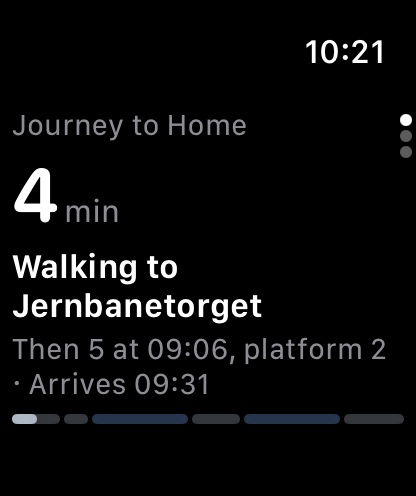
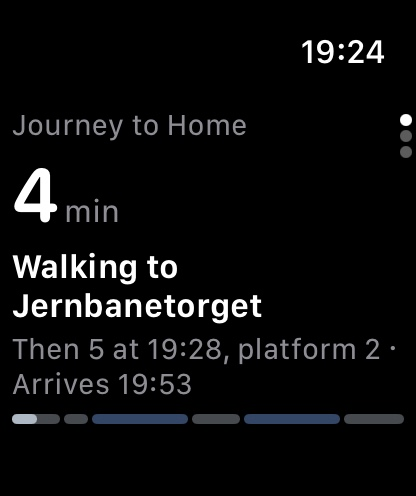
Put the Apple Watch app's screenshots and review note on the App Store (#134)
* Put the Apple Watch app's screenshots and review note on the App Store

The upload script takes watch_* screenshots (Norwegian ones added, both
retaken with the demo's times following the clock), the App Review notes
explain the watch app and the Bluetooth background mode within Apple's
4000 characters, and an "App Store listing" workflow runs both scripts
with the repository's key, creating the version when the release has not
yet.

-PTStop YES in the watch app's debug builds sends "Stop following" by
itself, which is how both directions were checked between paired
simulators.

* Let the media upload replace only some devices' media

---------

diff --git a/iosApp/WatchApp/WatchJourney.swift b/iosApp/WatchApp/WatchJourney.swift
@@ -57,6 +57,12 @@ final class WatchJourney: NSObject, ObservableObject, WCSessionDelegate {
                 guard let new = JourneyPlan(message: context) else { return }
                 if new.id != plan?.id { stopQueued = false }
                 plan = new
+                #if DEBUG
+                // -PTStop YES: "Stop following" as soon as a journey arrives, to check the way back
+                // to the iPhone between paired simulators, where a script cannot tap the button.
+                // A few seconds in, as a tap would be: the session is not reachable the moment it activates.
+                if UserDefaults.standard.bool(forKey: "PTStop") { DispatchQueue.main.asyncAfter(deadline: .now() + 5) { self.stopFollowing() } }
+                #endif
             case "end":
                 guard context["id"] as? String == plan?.id else { return }
                 // A journey that arrived stays to say so; one that was stopped goes.
@@ -73,18 +79,32 @@ final class WatchJourney: NSObject, ObservableObject, WCSessionDelegate {
 
     #if DEBUG
     /// The Garmin demo's journey (garminApp/source/Demo.mc): a walk, metro 5, bus 20 and the walk home.
+    /// Worded here in the watch's language, as the iPhone would have, for the store screenshots.
     private static func demoPlan(now: Int) -> [String: Any] {
         let m = 60
+        let norwegian = Locale.preferredLanguages.first?.hasPrefix("nb") == true
+        func t(_ english: String, _ norwegian_: String) -> String { norwegian ? norwegian_ : english }
+        let formatter = DateFormatter()
+        formatter.dateFormat = "HH:mm"
+        func clock(_ minutes: Int) -> String { formatter.string(from: Date(timeIntervalSince1970: TimeInterval(now + minutes * m))) }
+        let (metro, bus, arrival) = (clock(4), clock(16), clock(29))
         return [
-            "t": "plan", "v": 1, "id": "demo", "title": "Journey to Home", "arr": now + 29 * m,
+            "t": "plan", "v": 1, "id": "demo", "title": t("Journey to Home", "Reise til Hjem"), "arr": now + 29 * m,
             "f": [
-                [now, 2, "Walking to Jernbanetorget", "Then 5 at 09:06, platform 2 · Arrives 09:31", now + 4 * m],
-                [now + 2 * m, 0, "5 towards Vestli", "Leaves 09:06, 2 min late · Platform 2 · From Jernbanetorget · Arrives 09:31", now + 4 * m],
-                [now + 4 * m, 1, "On 5 to Majorstuen", "Next stop: Stortinget · 3 stops left · Then 20 at 09:18, platform B", now + 12 * m],
-                [now + 12 * m, 0, "20 towards Skøyen", "Leaves 09:18 · Platform B · Arrives 09:31", now + 16 * m],
-                [now + 16 * m, 1, "On 20 to Skøyen", "2 stops left · Arrives 09:31", now + 24 * m],
-                [now + 24 * m, 2, "Walking to Home", "Arrives 09:31", now + 29 * m],
-                [now + 29 * m, 3, "Arrived at Home", "Arrived 09:31", 0],
+                [now, 2, t("Walking to Jernbanetorget", "Går til Jernbanetorget"),
+                 t("Then 5 at \(metro), platform 2 · Arrives \(arrival)", "Så 5 kl. \(metro), plattform 2 · Ankomst \(arrival)"), now + 4 * m],
+                [now + 2 * m, 0, t("5 towards Vestli", "5 mot Vestli"),
+                 t("Leaves \(metro), 2 min late · Platform 2 · From Jernbanetorget · Arrives \(arrival)",
+                   "Går \(metro), 2 min forsinket · Plattform 2 · Fra Jernbanetorget · Ankomst \(arrival)"), now + 4 * m],
+                [now + 4 * m, 1, t("On 5 to Majorstuen", "Med 5 til Majorstuen"),
+                 t("Next stop: Stortinget · 3 stops left · Then 20 at \(bus), platform B",
+                   "Neste stopp: Stortinget · 3 stopp igjen · Så 20 kl. \(bus), plattform B"), now + 12 * m],
+                [now + 12 * m, 0, t("20 towards Skøyen", "20 mot Skøyen"),
+                 t("Leaves \(bus) · Platform B · Arrives \(arrival)", "Går \(bus) · Plattform B · Ankomst \(arrival)"), now + 16 * m],
+                [now + 16 * m, 1, t("On 20 to Skøyen", "Med 20 til Skøyen"),
+                 t("2 stops left · Arrives \(arrival)", "2 stopp igjen · Ankomst \(arrival)"), now + 24 * m],
+                [now + 24 * m, 2, t("Walking to Home", "Går til Hjem"), t("Arrives \(arrival)", "Ankomst \(arrival)"), now + 29 * m],
+                [now + 29 * m, 3, t("Arrived at Home", "Fremme ved Hjem"), t("Arrived \(arrival)", "Fremme \(arrival)"), 0],
             ],
             "s": [[0, now - 2 * m, now + 2 * m], [1, now + 2 * m, now + 4 * m], [2, now + 4 * m, now + 12 * m],
                   [1, now + 12 * m, now + 16 * m], [2, now + 16 * m, now + 24 * m], [0, now + 24 * m, now + 29 * m]],

diff --git a/scripts/upload-ios-store-media.rb b/scripts/upload-ios-store-media.rb
@@ -6,8 +6,10 @@
 #   ASC_KEY_ID=… ASC_ISSUER_ID=… ASC_KEY_P8="$(cat AuthKey.p8)" scripts/upload-ios-store-media.rb
 #
 # Files are named <device>_<n>_<scene>.jpg (with a -<pose> suffix for another iPhone Duo pose) and
-# <device>_preview.mp4, device being iphone (6.9"), ipad (13") or duo (iPhone Duo, screenshots
-# only), in one folder per App Store locale. They go up in name order.
+# <device>_preview.mp4, device being iphone (6.9"), ipad (13"), duo (iPhone Duo, screenshots
+# only) or watch (the Apple Watch app, 416×496, screenshots only), in one folder per App Store
+# locale. They go up in name order. ASC_VERSION=X.Y.Z creates that version when none is in preparation,
+# and ASC_MEDIA="watch duo" replaces only those devices' media, leaving the others as they are.
 require "base64"
 require "digest"
 require "json"
@@ -18,8 +20,13 @@ ROOT = File.expand_path("..", __dir__)
 APP_ID = "6819282127"
 # APP_IPHONE_DUO is not in Apple's API reference yet, but works: one set of up to 10 screenshots,
 # taking both the inner and the outer display's sizes.
-SCREENSHOT_TYPES = { "iphone" => "APP_IPHONE_67", "ipad" => "APP_IPAD_PRO_3GEN_129", "duo" => "APP_IPHONE_DUO" }.freeze
+SCREENSHOT_TYPES = { "iphone" => "APP_IPHONE_67", "ipad" => "APP_IPAD_PRO_3GEN_129", "duo" => "APP_IPHONE_DUO",
+                     "watch" => "APP_WATCH_SERIES_10" }.freeze
 PREVIEW_TYPES = { "iphone" => "IPHONE_67", "ipad" => "IPAD_PRO_3GEN_129" }.freeze
+ONLY = ENV["ASC_MEDIA"].to_s.split(/[\s,]+/).reject(&:empty?)
+unknown = ONLY - SCREENSHOT_TYPES.keys
+abort "ASC_MEDIA: unknown device #{unknown.join(', ')} (#{SCREENSHOT_TYPES.keys.join(', ')})" unless unknown.empty?
+wanted = ->(types) { ONLY.empty? ? types : types.slice(*ONLY) }
 
 def token
   key = OpenSSL::PKey::EC.new(ENV.fetch("ASC_KEY_P8"))
@@ -79,27 +86,38 @@ def fresh_set(localization_id, sets_path, set_type, type_attribute, type_value, 
     relationships: { appStoreVersionLocalization: { data: { type: "appStoreVersionLocalizations", id: localization_id } } } } })["data"]["id"]
 end
 
+# The version being prepared. With ASC_VERSION set and none in preparation, that version is created,
+# as the release would on its merge, so the listing can be made ready before the release is submitted.
+def editable_version
+  found = api(:get, "/v1/apps/#{APP_ID}/appStoreVersions?filter[appStoreState]=PREPARE_FOR_SUBMISSION,DEVELOPER_REJECTED,REJECTED,METADATA_REJECTED")["data"].first
+  return found if found
+  wanted = ENV["ASC_VERSION"].to_s
+  abort "No editable App Store version (set ASC_VERSION to create one)" if wanted.empty?
+  puts "Creating App Store version #{wanted}"
+  api(:post, "/v1/appStoreVersions", { data: { type: "appStoreVersions", attributes: { platform: "IOS", versionString: wanted },
+    relationships: { app: { data: { type: "apps", id: APP_ID } } } } })["data"]
+end
+
 # Checked before anything is replaced, so an oversized set leaves the version's media as it was.
-SCREENSHOT_TYPES.each_key do |device|
+wanted.(SCREENSHOT_TYPES).each_key do |device|
   Dir[File.join(ROOT, "iosApp/fastlane/screenshots", "*", "#{device}_*.{jpg,png}")].group_by { |f| File.dirname(f) }.each do |dir, files|
     abort "#{File.basename(dir)}: #{files.size} #{device} screenshots, App Store Connect takes at most 10" if files.size > 10
   end
 end
 
-version = api(:get, "/v1/apps/#{APP_ID}/appStoreVersions?filter[appStoreState]=PREPARE_FOR_SUBMISSION,DEVELOPER_REJECTED,REJECTED,METADATA_REJECTED")["data"].first
-abort "No editable App Store version" unless version
+version = editable_version
 localizations = api(:get, "/v1/appStoreVersions/#{version['id']}/appStoreVersionLocalizations")["data"]
   .to_h { |l| [l["attributes"]["locale"], l["id"]] }
 
 localizations.each do |locale, localization_id|
   puts "#{locale} (version #{version['attributes']['versionString']}):"
-  SCREENSHOT_TYPES.each do |device, display_type|
+  wanted.(SCREENSHOT_TYPES).each do |device, display_type|
     files = Dir[File.join(ROOT, "iosApp/fastlane/screenshots", locale, "#{device}_*.{jpg,png}")].sort
     next if files.empty?
     set_id = fresh_set(localization_id, "appScreenshotSets", "appScreenshotSets", "screenshotDisplayType", display_type, "appScreenshots")
     files.each { |file| upload("appScreenshots", :appScreenshotSet, set_id, file) }
   end
-  PREVIEW_TYPES.each do |device, preview_type|
+  wanted.(PREVIEW_TYPES).each do |device, preview_type|
     files = Dir[File.join(ROOT, "iosApp/fastlane/app_previews", locale, "#{device}_*.mp4")].sort
     next if files.empty?
     set_id = fresh_set(localization_id, "appPreviewSets", "appPreviewSets", "previewType", preview_type, "appPreviews")

diff --git a/scripts/update-ios-store-text.rb b/scripts/update-ios-store-text.rb
@@ -6,7 +6,8 @@
 #
 #   ASC_KEY_ID=… ASC_ISSUER_ID=… ASC_KEY_P8="$(cat AuthKey.p8)" scripts/update-ios-store-text.rb
 #
-# URLs, categories and copyright are left as App Store Connect has them.
+# URLs, categories and copyright are left as App Store Connect has them. ASC_VERSION=X.Y.Z creates
+# that version when none is in preparation.
 require "base64"
 require "json"
 require "net/http"
@@ -50,8 +51,19 @@ def update(type, id, attributes)
   api(:patch, "/v1/#{type}/#{id}", { data: { type: type, id: id, attributes: attributes } })
 end
 
-version = api(:get, "/v1/apps/#{APP_ID}/appStoreVersions?filter[appStoreState]=PREPARE_FOR_SUBMISSION,DEVELOPER_REJECTED,REJECTED,METADATA_REJECTED")["data"].first
-abort "No editable App Store version" unless version
+# The version being prepared. With ASC_VERSION set and none in preparation, that version is created,
+# as the release would on its merge, so the listing can be made ready before the release is submitted.
+def editable_version
+  found = api(:get, "/v1/apps/#{APP_ID}/appStoreVersions?filter[appStoreState]=PREPARE_FOR_SUBMISSION,DEVELOPER_REJECTED,REJECTED,METADATA_REJECTED")["data"].first
+  return found if found
+  wanted = ENV["ASC_VERSION"].to_s
+  abort "No editable App Store version (set ASC_VERSION to create one)" if wanted.empty?
+  puts "Creating App Store version #{wanted}"
+  api(:post, "/v1/appStoreVersions", { data: { type: "appStoreVersions", attributes: { platform: "IOS", versionString: wanted },
+    relationships: { app: { data: { type: "apps", id: APP_ID } } } } })["data"]
+end
+
+version = editable_version
 puts "Version #{version['attributes']['versionString']}:"
 
 api(:get, "/v1/appStoreVersions/#{version['id']}/appStoreVersionLocalizations")["data"].each do |localization|

diff --git a/CLAUDE.md b/CLAUDE.md
@@ -221,7 +221,7 @@ sample place.
 
 **Watch** (`data/journey/watch/`, Garmin first). A followed journey can also show on a watch. `WatchJourneyNotifier` wraps the platform's `JourneyNotifier` when the platform registers a `WatchLink` (the connected watch and its app) and a `WatchWording` in Koin; without them the tracker gets the phone's notifier as before. It asks the watch to open the app once as a journey starts, and sends the open app a `WatchPlan`: the journey from now to arrival as worded frames, timeline segments and the alerts to come, which the watch walks through by its own clock since the phone may be suspended. A plan is re-sent only when the watch does not already hold it (`isCoveredBy`). While the watch app is open (from its "start" to its "bye", or 150 s without an "alive") alerts come from the watch alone: the phone shows and schedules none, except a faster route, whose "Switch" only the phone has. "Stop following" on the watch stops the journey. The message format both ends share is `WatchMessages` (strings, 32-bit numbers and lists only; times in seconds). On Android the link is `GarminWatchLink` (`app/.../journey/`, Garmin's Connect IQ companion SDK, which talks through the Garmin Connect app; without that app there is simply no watch and nothing is shown or asked), worded by `AndroidWatchWording` from the notifications' own `JourneyProgressContent` and `JourneyAlertContent`; `GarminWatchLink.APP_ID` must match the watch app's manifest. On iOS it is `GarminWatch` (`iosApp/.../Platform/GarminWatch.swift`, the ConnectIQ Swift package, linked with `-ObjC`) behind the `WatchSource` port. There the SDK only learns of a watch through a round trip to Garmin Connect, started by "Connect Garmin watch" in Settings > Journey alerts and answered on the `pulsetransit-ciq` URL scheme; the chosen watch is saved, and the SDK, which asks for Bluetooth, is never started before one is chosen (nor in UI tests).
 
-**Apple Watch** (`iosApp/WatchApp`, target `PulseTransitWatch`, watchOS 10+, embedded in the iOS app; pure SwiftUI, no Kotlin). It is a `WatchMirror`, not a `WatchLink`: watchOS suspends the app when the wrist drops, so it cannot show alerts of its own, and iOS brings the phone's notifications to the wrist anyway. So it takes nothing over and is only kept up to date: `WatchJourneyNotifier` gives the mirror the plan (without alerts) whenever it changes and the journey's end, `AppleWatch` (`Platform/AppleWatch.swift`) sends it as the WatchConnectivity application context (latest wins, delivered to a watch app that is not running, kept between launches), and the watch app (`WatchJourney`, `JourneyPlan.swift`, the same message format as Garmin's) walks through it by its own clock. "Stop following" comes back as a message, which wakes the iPhone app; out of reach it is queued. Its few labels are in `WatchApp/Localizable.xcstrings`, outside `sync-ios-strings.py`. Debug launch arguments for the watch simulator, which has no iPhone: `-PTDemo YES` shows a made-up journey, `-PTPage 1` or `2` opens on "Coming up" or "Stop following".
+**Apple Watch** (`iosApp/WatchApp`, target `PulseTransitWatch`, watchOS 10+, embedded in the iOS app; pure SwiftUI, no Kotlin). It is a `WatchMirror`, not a `WatchLink`: watchOS suspends the app when the wrist drops, so it cannot show alerts of its own, and iOS brings the phone's notifications to the wrist anyway. So it takes nothing over and is only kept up to date: `WatchJourneyNotifier` gives the mirror the plan (without alerts) whenever it changes and the journey's end, `AppleWatch` (`Platform/AppleWatch.swift`) sends it as the WatchConnectivity application context (latest wins, delivered to a watch app that is not running, kept between launches), and the watch app (`WatchJourney`, `JourneyPlan.swift`, the same message format as Garmin's) walks through it by its own clock. "Stop following" comes back as a message, which wakes the iPhone app; out of reach it is queued. Its few labels are in `WatchApp/Localizable.xcstrings`, outside `sync-ios-strings.py`. Debug launch arguments for the watch simulator: `-PTDemo YES` shows a made-up journey without an iPhone (the store screenshots), `-PTPage 1` or `2` opens on "Coming up" or "Stop following", `-PTStop YES` sends "Stop following" five seconds after a journey arrives. The last is for checking both directions between paired simulators (`xcrun simctl pair <watch> <phone>`, install each app on its own simulator, then shut both down and boot them again: until then the phone reports the watch app as not installed and sends nothing). The simulators do not deliver `transferUserInfo`, the out-of-reach fallback, so only the direct message can be checked there.
 
 **Board route alternatives** (`data/BoardRouteAlternatives.kt`, board mode only). Each saved destination is fetched as `ROUTES_PER_DESTINATION` routes (the first and 3 alternatives), from the saved location (`getTripOptions`) or, without one, from the favourite stops (`getTripOptionsFromStops`, one request per origin as for one route, the same departure from two origins listed once by `tripKey`). Both repository calls always fetch and cache at least that many and return what was asked, since the cache keeps one list per route key: the widget asking for 1 must not cut the board's cached alternatives. Which cards are expanded is a setting (`getRouteAlternativesShownIds`, also a switch in Settings > Destinations), never collapsed by the app; the control hides while a card has no alternatives left (`UiState.showsRouteAlternatives`/`canToggleRouteAlternatives`). Both apps draw them as the route cards below describe.
 

diff --git a/README.MD b/README.MD
@@ -199,7 +199,12 @@ once fail.
 5. `scripts/record-ios-preview.sh <udid> <out.mp4> <locale> <886x1920|1200x1600>` records the
    scripted tour (`-PTDemo YES`), from On the spot to the wall board, as a 29-second preview.
 6. `scripts/upload-ios-store-media.rb` (with the `ASC_*` variables) replaces the media on the
-   editable App Store version, the iPhone Duo set included. Duo screenshots are optional until
+   editable App Store version, the iPhone Duo set included, and the Apple Watch app's
+   (`watch_*`, 416×496: the watch simulator of a Series 10 or 11, 46 mm, running a Debug build
+   with `-PTDemo YES` and `-PTPage 0`, `1`, `2`, in each language with `-AppleLanguages`; they
+   are not framed). The "App Store listing" workflow (`.github/workflows/store-listing.yml`, run
+   by hand) runs it and `update-ios-store-text.rb` with the repository's key, and can create the
+   version first; do it before merging a release PR whose listing changed. Duo screenshots are optional until
    April 2027, when apps built with the iOS 27.1 SDK must include them; until then they earn the
    "optimized for iPhone Duo" badge.
 7. `swift scripts/render-ios-store-header.swift <raw-dir> iosApp/fastlane/creative_assets` renders
